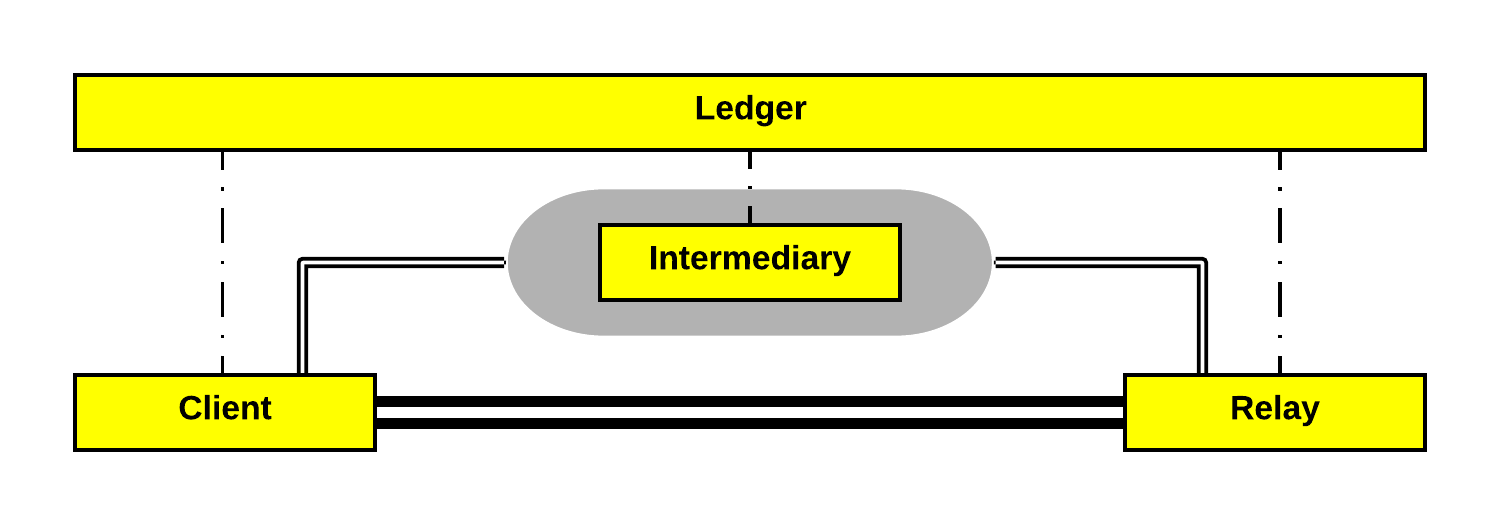
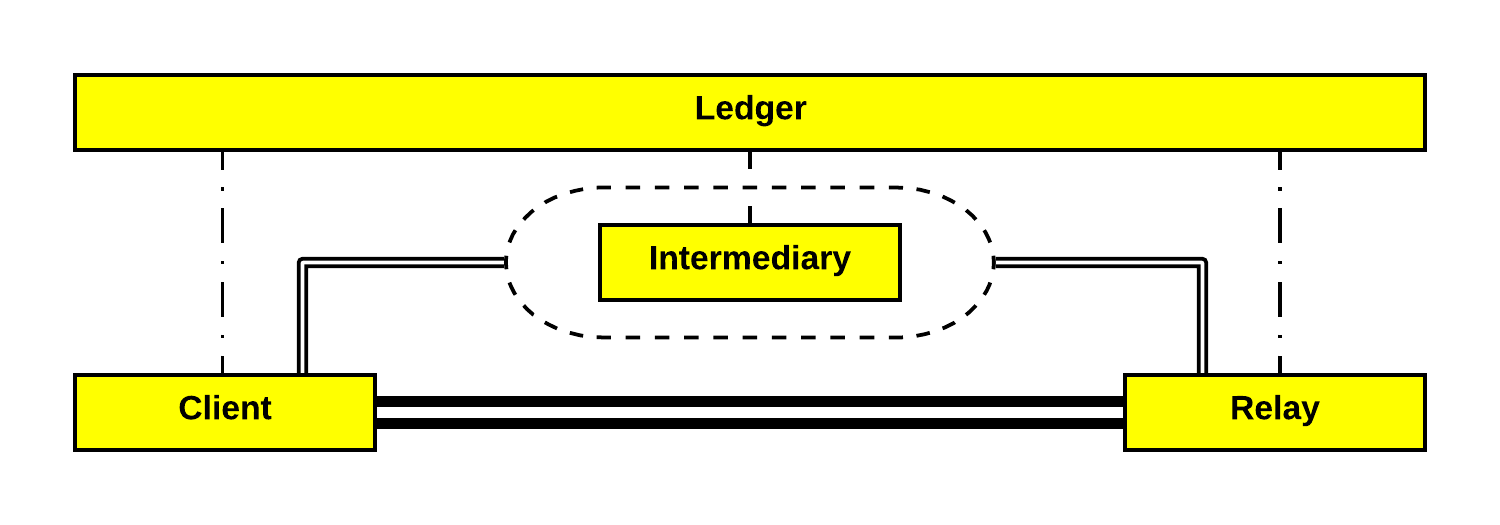
reworked economics and payment sections

Changed region(s): [[0.3373, 0.3352, 0.6747, 0.6705]]

diff --git a/paper/sections/economic-design.tex b/paper/sections/economic-design.tex
@@ -1,73 +1,64 @@
-We first summarize the economic layer of the incentivization scheme. At this
+
+We first sumarize the economic layer of the incentivization scheme. At this
 level, we assume the existence of an ideally secure and efficient payment layer
-and proceed to outline the high-level policy design.
+and proceed to outline the high-level policy design. The challenge here is to
+engineer the flow of money in a way that is both economically stable yet still
+adheres to the core mission of the Tor Project.
 
-\subsection{Currency Design}
+\subsection{Economic Model}
+The moneTor scheme allows for relays to offer a \emph{premium} bandwidth product
+to Tor users in exchange for monetary payments. Under this framework,
+financially willing users send cash directly to each relay along their circuits
+in exchange for higher internet bandwidth and faster download speeds relative to
+unpaid users. The moneTor tokens themselves can be viewed as wrappers for some
+external financial asset that is converted at an exchange service. These assets
+may be any form of programmatic money which satisfies the standard properties of
+\textit{scarcity}, \textit{fungibility}, \textit{divisibility},
+\textit{durability}, and
+\textit{transferability}~\cite[p.3]{crump2011phenomenon} A schematic of the cash
+flow cycle is illustrated in Figure~\ref{fig:economic}.
+\begin{figure}[h] \centering
+  \includegraphics[trim={0.5cm, 0.5cm, 0.5cm, 0.5cm}, clip, scale=0.7]{images/economic_diagram.png}
+  \caption[Cash Flow]{Cash Flow --- movement of moneTor tokens through the
+    network. The value $\tau$ denotes the fraction of money that is collected
+    for taxation purposes.}
+  \label{fig:economic}
+\end{figure}
+We introduce a novel concept within the field in the form of a taxation
+element. Intuitively, the shape of the network that will emerge in a purely
+profit-seeking environment may not perfectly correspond with the central goals
+of the Tor Project. The Tor Project may for instance desire to artificially
+compensate certain types of relays more than others in order to improve the core
+user experience. To this end, we accomodate for a stream of taxed income that is
+anonymously diverted into a shared pool of funds. These funds are selectively
+redistributed to relays via a transparent policy.  In essence, taxation provides
+a tunable control mechanism for The Tor Project to shape the topology of the
+network towards some notion of optimal diversity and performance.
 
-The moneTor framework proposes a native payment layer for the Tor ecosystem. To
-qualify as a true monetary payment design, our payment tokens should satisfy the
-standard properties of \textit{scarcity}, \textit{fungibility},
-\textit{divisibility}, \textit{durability}, and
-\textit{transferability}~\cite[p.3]{crump2011phenomenon} Furthermore, we follow
-the Bitcoin paradigm in which all users maintain full and exclusive control of
-their monetary wealth through use of public key cryptography.
+A key economic question to address is the issue of price determination. While it
+would be tempting to enlist any number of market-based mechanisms to set premium
+bandwidth prices, any price differentiation between clients or relays inevitably
+leaks additional information. We therefore impose the constraint that all users
+should pay a single uniform price for premium bandwidth at any time $t$. This
+price may be set through a centralized calculation by the authorities or a more
+dynamical consensus vote reached by the network.
 
-Tokens must accrue some form of intrinsic value and one option is to launch the
-moneTor token with an Initial Coin Offering maintained by decentralized mining. There are two drawbacks to this approach.
+\subsection{Incentivized Conformity} In a decentralized network, there is no
+practical way to enforce standard behavior at each local node. We must therefore
+consider whether all nodes are rationally incentivized to obey the stipulated
+policies. For instance, we cannot guarantee that relays will actually confer
+premium bandwidth to paying users. Even though the relay has no particular
+reason to deviate, the client should periodically monitor her bandwidth and only
+make payments when they appear to be making a difference. The relationship
+between the client and relay can then be modeled as a game theoretic tit-for-tat
+dynamic.
 
-\begin{enumerate}
-\item Decentralized blockchains are inefficient
-\item New currencies introduce undue economic complexity
-\end{enumerate}
-
-The efficiency of decentralized blockchains stems from the necessity to reach
-agreement among an unbounded number of nodes through expensive consensus
-mechanisms. Fortunately, the Tor network benefits in some ways from a more
-centralized infrastructure comprised from the list of trusted authorities. We
-propose to take advantage of this setup by introducing a new set of ledger
-authorities who are responsible for maintaining publicly audited global
-currency data.
-
-To avoid the economic and financial nuances associated with a new currency, we
-suggest a two-way value peg to fix moneTor tokens to a high-market cap
-cryptocurrency such as Bitcoin or Ethereum~\cite{back2014enabling,
-  poon2017plasma}. We recommend engineering the system under the Ethereum Plasma
-model~\cite{poon2017plasma}. Aside from the efficiency improvements, it would
-likely be feasible in the Plasma design to integrate smart contracts such that
-the Ethereum blockchain becomes the authority ledger of last resort in the event
-that the native Tor ledger goes offline. Effectively, this means we guarantee
-that honest users will never completely lose access to their money so long as
-the Ethereum blockchain is accessible.
-
-Finally, moneTor requires a base layer payment protocol to anonymously move
-large sums of money. To do this, we suggested either
-Zerocash~\cite{sasson2014zerocash} or Cryptonote~\cite{van2013cryptonote}.
-
-\subsection{Incentive Model}
-The moneTor framework follows the same philosophy as prior incentivization
-proposals by offering a paid \emph{premium} bandwidth product to Tor
-users. Under this scheme, financially willing users send direct payments to each
-relay along their circuits in exchange for higher internet bandwidth relative to
-unpaid users. While we cannot strictly enforce that all relays will correctly
-following the protocol in a decentralized network, the client can monitor her
-own bandwidth and only make payments when it appears to be beneficial. This
-setup can be viewed from a game theoretic tit-for-tat relationship in which the
-relay has no apparent incentive to deviate.
-
-In our setup, a key economic question to address is the issue of price
-determination. While it would be tempting to enlist any number of market-based
-mechanisms to set premium bandwidth prices, any price differentiation between
-clients or relays inevitably leaks information. We therefore impose the
-constraint that all users should pay a single uniform price for premium
-bandwidth at any time $t$. This price may be centralized calculation by the
-authorities or a more dynamical consensus vote reached by the network.
-
-\textbf{Death and Taxes} A more convoluted problem is the issue of wealth
-distribution. Given that Tor is a fundamentally nonprofit ecosystem, it is not
-quite clear that an optimal profit-seeking network will closely aligned with the
-core mission of the Tor Project. We address this problem with the introduction
-of a taxation element. From every payment, a percentage of funds is anonymously
-diverted to an account controlled by network authories and transparently
-redistributed to relays or even other users with desirable properties. In
-essence, taxation provides a tunable mechanism for the Tor Project to shape the
-topology of the network towards better diversity and performance.
+At the opposite end of the spectrum, relays might overly prioritize premium
+circuits while rejecting all traffic from unpaid users. They might also attempt
+to game the tax redistribution process to gain larger share of the proceeds. The
+bandwidth measurement authorities must anticipate such modes of deviation from
+the standard behavior to ensure that the risk for a relay to get blacklisted
+from the network is greater than the incremental gains it might attain from
+cheating. These attacks, while manageable, suggest that it would be prudent to
+maintain a simple incentive model until we can better study behavioral deviation
+dynamics in the live network.

diff --git a/paper/sections/payment-design.tex b/paper/sections/payment-design.tex
@@ -2,7 +2,36 @@ Where we previously assumed the existence of an ideal payment procedure, we now
 describe the technical construction for the moneTor payment scheme. The protocol
 setup and algorithmic overview of the payment layer is covered in this chapter.
 
-\subsection{Payment Protocols}
+\subsection{Base Layer}
+
+The moneTor framework first requires a base layer payment protocol for users to
+anonymously and securely manage their funds. We follow the Bitcoin paradigm in
+which all users maintain full and exclusive control of their monetary wealth
+through use of public key cryptography~\cite{nakamoto2008bitcoin}. Unlike
+Bitcoin, it is unnecessary for moneTor to rely on an inefficient decentralized
+consensus mechanism. Since Tor already relies on a centralized set of
+authorities, we simply introduce a new ledger authority role to maintain the
+global payment state on a public tamper-evident
+database~\cite{crosby2009efficient}.
+
+Structuring the ledger to understand blockchain-like semantics allows us to make
+use of recent developments in blockchain interoperability, allowing moneTor
+tokens to be pegged at a 1:1 ratio to a more popular cryptocurrency such as
+Bitcoin or Ethereum~\cite{back2014enabling, poon2017plasma}. The Plasma model in
+particular has many desirable properties. Under this setup, the moneTor ledger
+would act as a ``child chain'' that is coupled to the main Ethereum
+blockchain. This allows the external public blockchain to become the authority
+ledger of last resort in the event that the moneTor ledger goes
+offline. Effectively, honest users will always be able to make some claim to
+their so long as the Ethereum network is operational.
+
+Finally, moneTor requires an anonymous base-layer payment protocol to allow
+users to make private low-frequency transactions. Potential candiates include
+Cryptonote, which makes use of stealth addresses and ring
+signatures~\cite{van2013cryptonote}, or Zerocash, which employs more expensive
+but more theoretically secure zero-knowledge proofs~\cite{sasson2014zerocash}.
+
+\subsection{Relay Payment Protocols}
 
 In this section we specify formal protocols that comprise the payment
 scheme. All protocols are either two or three party interactions between a
@@ -54,16 +83,14 @@ themselves are \emph{locally transparent} in the sense that each nanopayment in
 the same channel is trivially linked to each other. However, the nanopayment
 channels themselves are unlinkable to other nanopayment channels and
 micropayment operations.
-
 \begin{figure}[h] \centering
-  \includegraphics[scale=0.6]{images/party_diagram.png}
+  \includegraphics[trim={0.5cm, 0.5cm, 0.5cm, 0.5cm}, clip, scale=0.6]{images/party_diagram.png}
   \caption[Payment Roles]{Payment Roles --- Dashed lines represent periodic
     transactions, thin double lines indicate micropayment channels, and thick
     double lines indicate a nanopayment channel. The gray area around the
     intermediary represents a notion of payment anonymity for the end users.}
   \label{fig:parties}
 \end{figure}
-
 Generic parties $C$ and $R$ can construct a nanopayment channel once both have
 completed $Establish$ with a common intermediary $I$. We define the following
 set of protocols needed to manage nanopayments.
